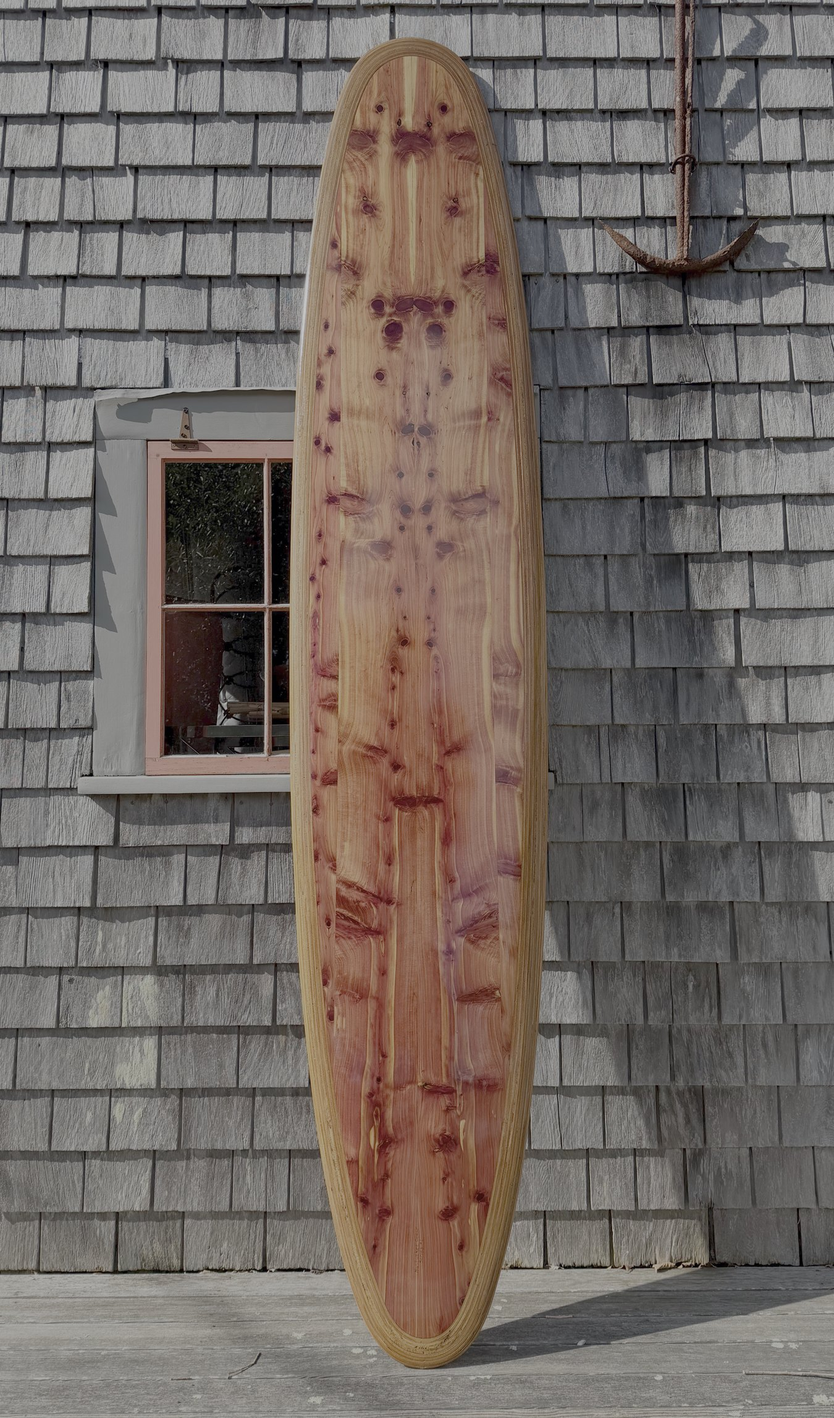
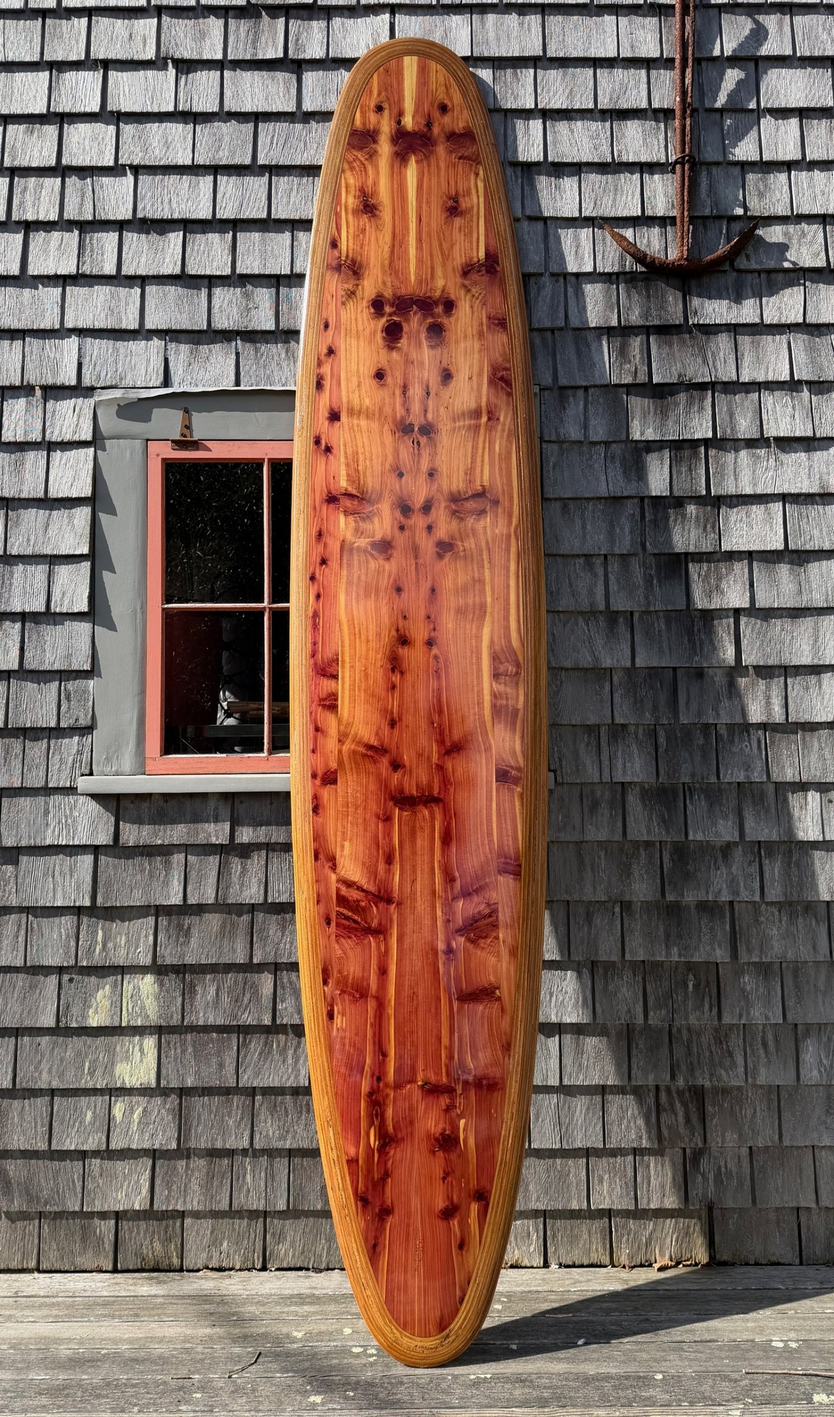
Designer page: finished Wing as hero
Claude-Session: https://claude.ai/code/session_01PAb2GxjydaHuBzQAZJj6oS

diff --git a/palmbeach/index.html b/palmbeach/index.html
@@ -50,7 +50,7 @@ section{padding:clamp(72px,10vw,128px) 0;border-top:1px solid var(--rule)}
 .hero h1 em{color:var(--heartwood)}
 .hero p.lede{font-size:clamp(19px,1.8vw,22px);max-width:40ch;margin:28px 0 36px}
 .hero figure{margin:0;position:relative}
-.hero figure img{width:100%;aspect-ratio:3236/5496;object-fit:cover;object-position:50% 50%}
+.hero figure img{width:100%;aspect-ratio:1517/2576;object-fit:cover;object-position:50% 50%}
 .hero figcaption{margin-top:10px}
 .ctas{display:flex;gap:14px;flex-wrap:wrap}
 .btn{display:inline-block;padding:14px 22px;border:1px solid var(--heartwood);color:var(--tannin);background:var(--heartwood);font-family:var(--body);font-weight:500;font-size:15px;letter-spacing:.02em;text-decoration:none;border-radius:2px;transition:background .2s,color .2s}
@@ -207,8 +207,8 @@ footer nav a{color:var(--paper-dim)}
         </div>
       </div>
       <figure>
-        <img src="img/hero.jpg" alt="A glossy red cedar longboard standing against a weathered shingle wall beside a window">
-        <figcaption class="cap">9'0" longboard · Nantucket, 2026</figcaption>
+        <img src="img/hero.jpg" alt="The finished Wing, a glossy red cedar 9 foot longboard, standing against a weathered shingle wall beside a window">
+        <figcaption class="cap">Wing 9'0" · Nantucket, 2026</figcaption>
       </figure>
     </div>
   </div>
